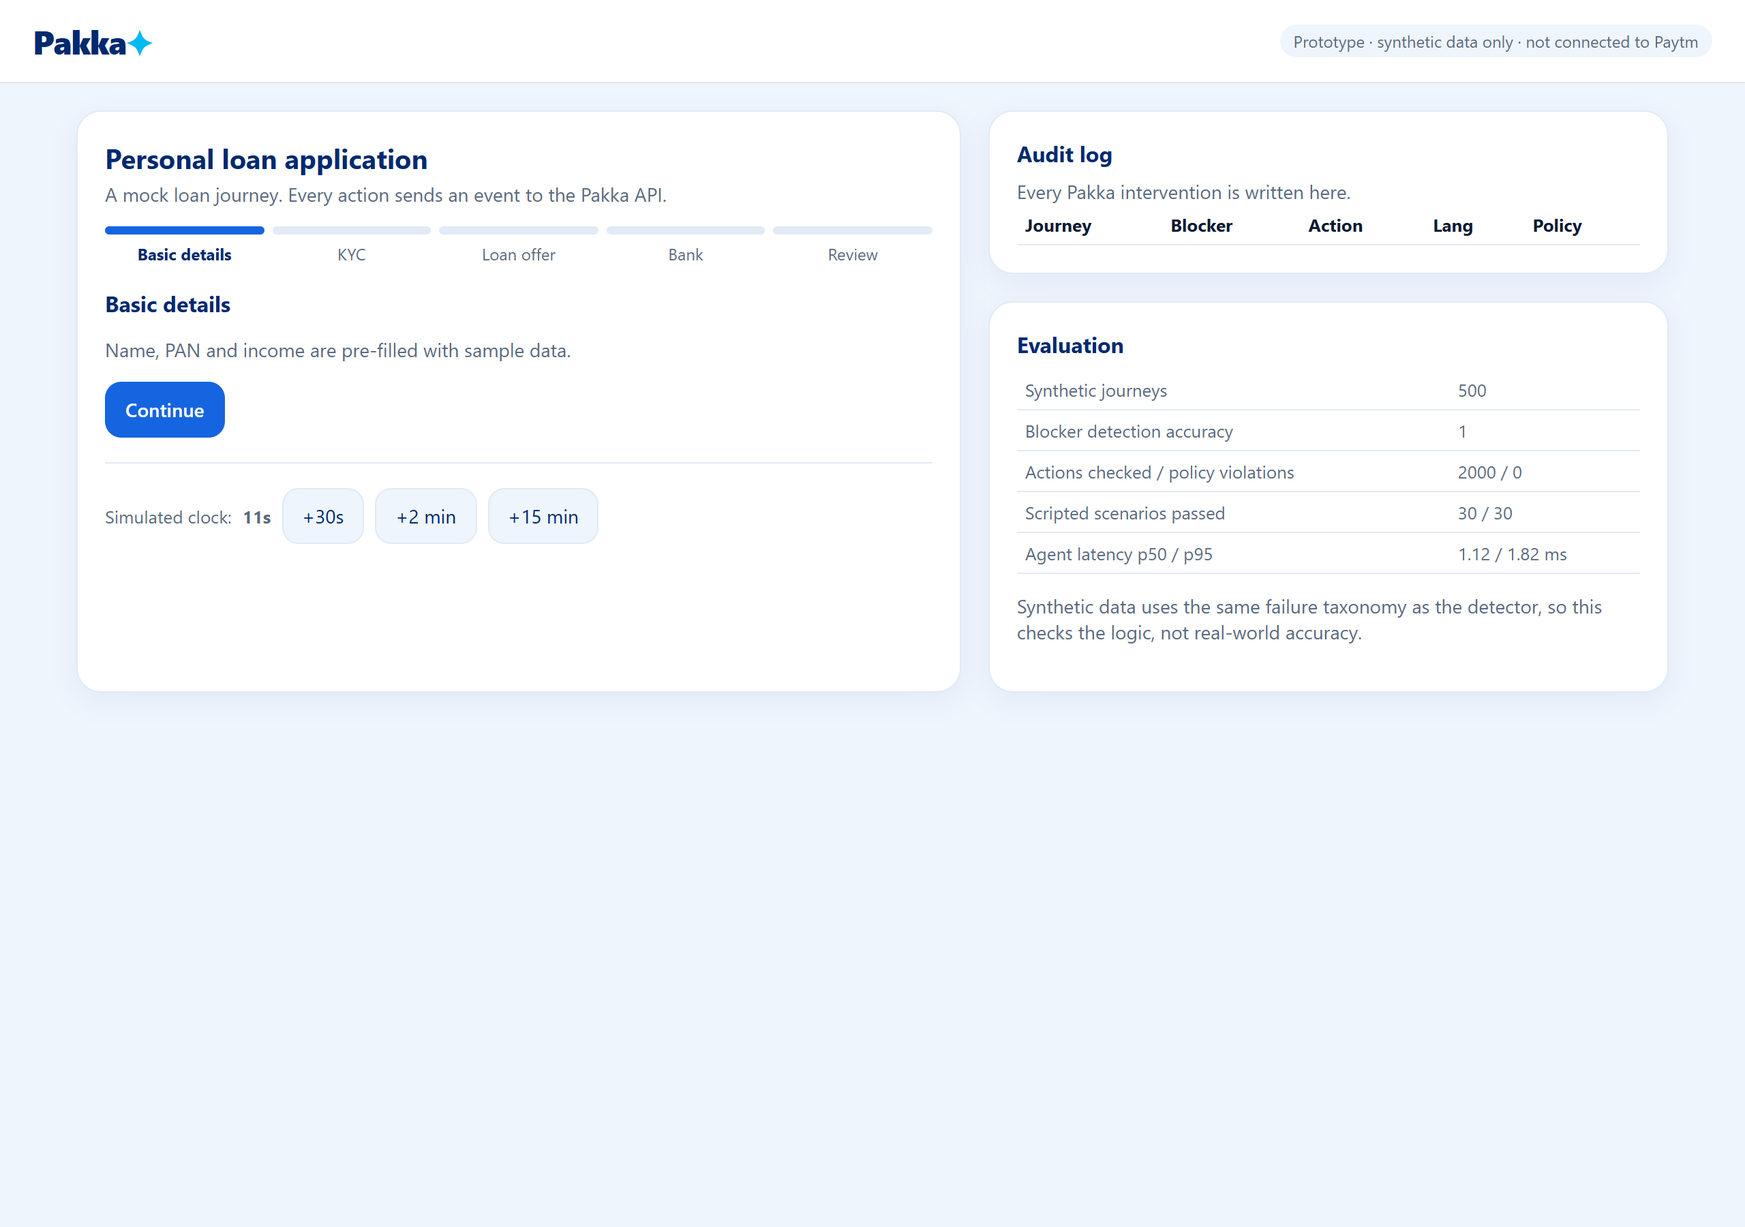
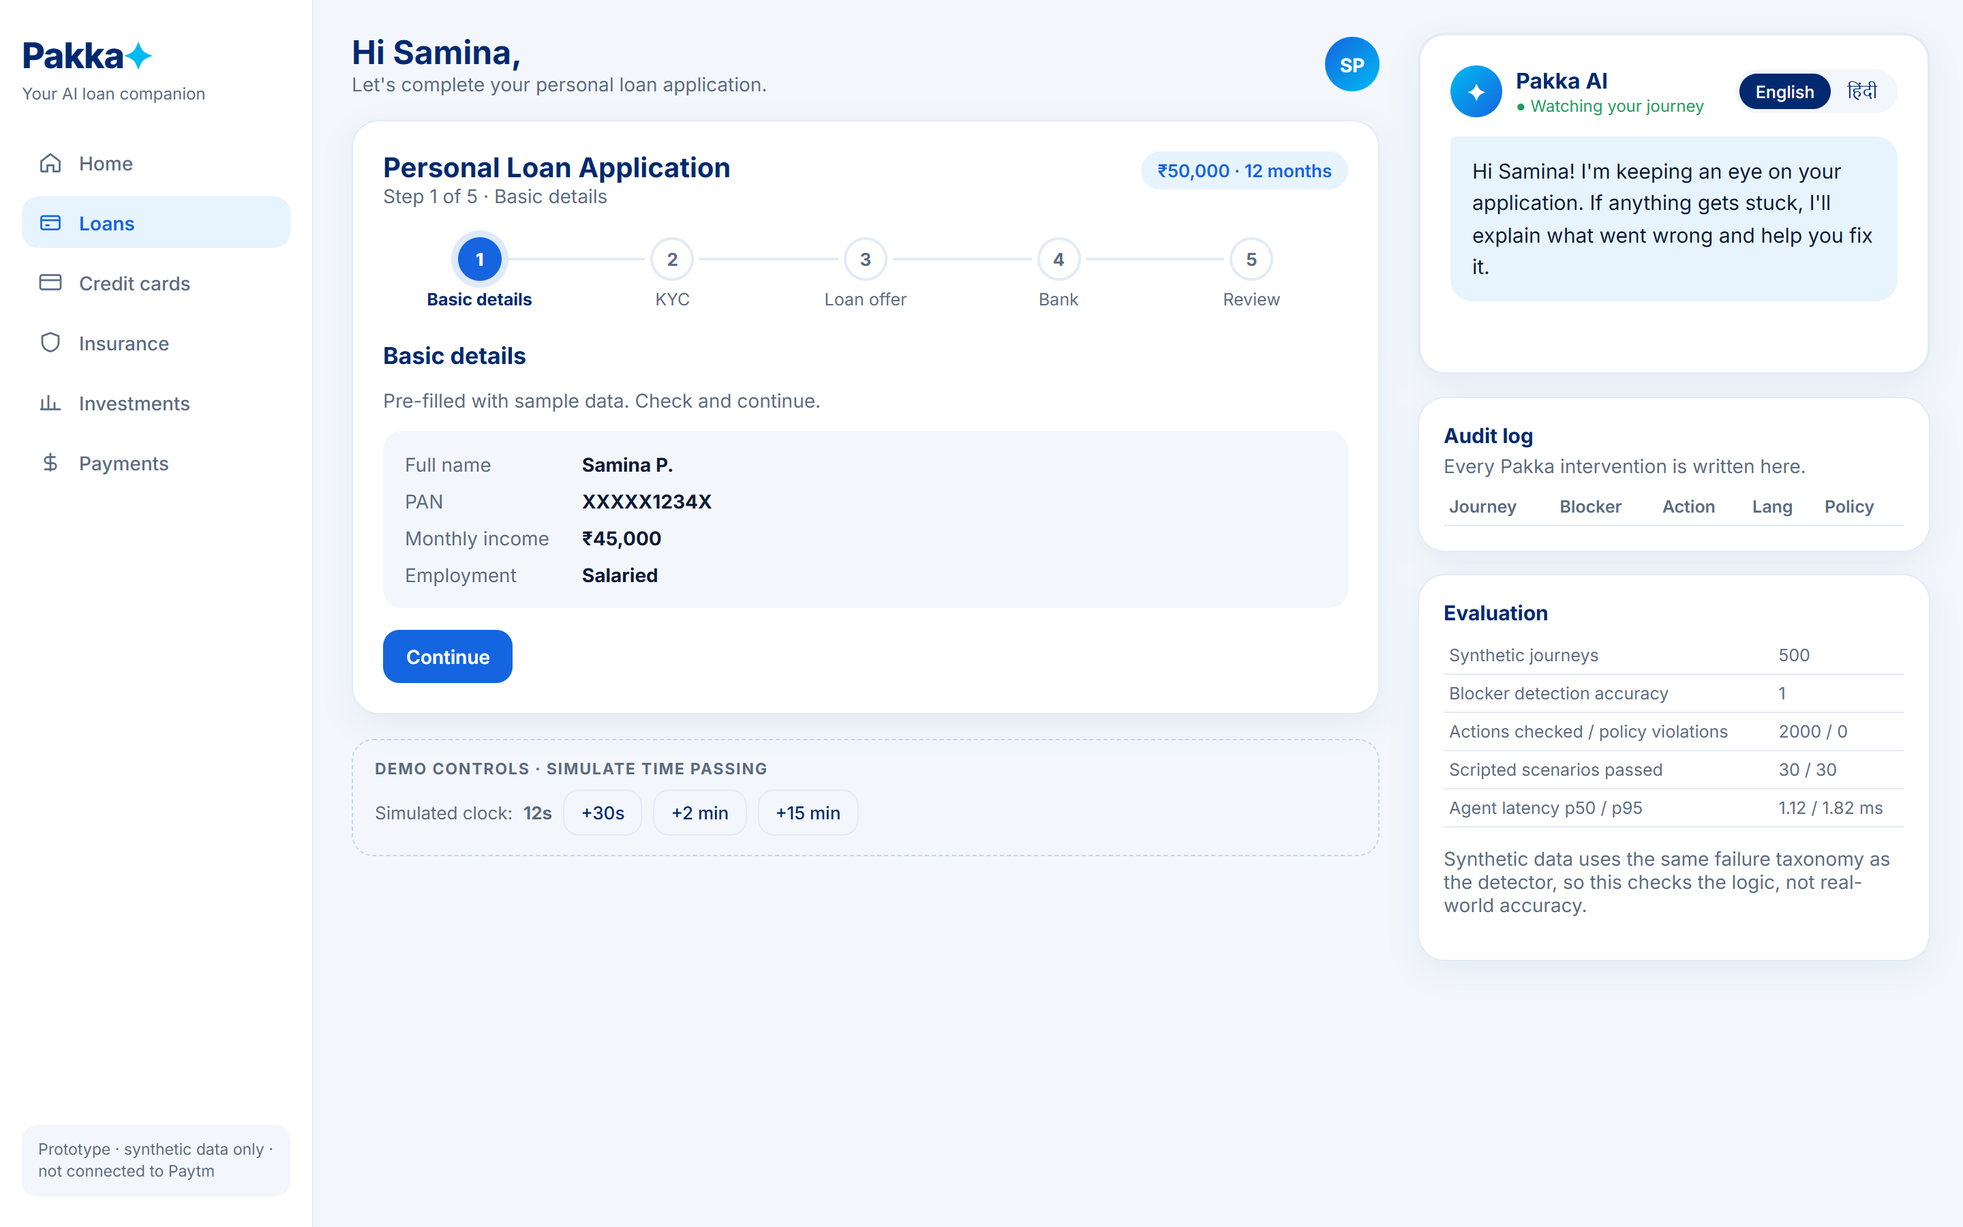
Redesign demo page to match concept screens

diff --git a/app/static/index.html b/app/static/index.html
@@ -4,71 +4,153 @@
 <meta charset="utf-8">
 <meta name="viewport" content="width=device-width, initial-scale=1">
 <title>Pakka prototype</title>
+<link rel="preconnect" href="https://fonts.googleapis.com">
+<link href="https://fonts.googleapis.com/css2?family=Inter:wght@400;500;600;700;800&display=swap" rel="stylesheet">
 <style>
-:root{--navy:#002970;--blue:#1565E0;--sky:#00BAF2;--bg:#EEF5FD;--card:#fff;--line:#E1EAF5;--text:#0B1B33;--muted:#5A6B82;--green:#1E9E5A;--amber:#B5651D}
+:root{--navy:#002970;--blue:#1565E0;--sky:#00BAF2;--bg:#F3F7FC;--soft:#E8F4FD;--card:#fff;--line:#E3EBF5;--text:#0B1B33;--muted:#5A6B82;--green:#1E9E5A;--greenBg:#E7F6EE;--amber:#B5651D;--amberBg:#FFF1E2}
 *{box-sizing:border-box}
 body{margin:0;font-family:Inter,system-ui,-apple-system,"Segoe UI",Roboto,Arial,sans-serif;background:var(--bg);color:var(--text)}
-header{display:flex;align-items:center;justify-content:space-between;padding:14px 24px;background:#fff;border-bottom:1px solid var(--line)}
-.logo{font-weight:800;font-size:24px;color:var(--navy);letter-spacing:-.5px}.logo span{color:var(--sky)}
-.tag{font-size:12px;color:var(--muted);background:var(--bg);padding:4px 10px;border-radius:99px}
-main{display:grid;grid-template-columns:1.3fr 1fr;gap:20px;max-width:1200px;margin:20px auto;padding:0 16px}
-@media(max-width:860px){main{grid-template-columns:1fr}}
-.card{background:var(--card);border:1px solid var(--line);border-radius:18px;padding:20px;box-shadow:0 6px 20px rgba(0,41,112,.06)}
-h2{margin:0 0 4px;font-size:20px;color:var(--navy)}h3{margin:0 0 8px;font-size:16px;color:var(--navy)}
+.app{display:grid;grid-template-columns:230px minmax(0,1fr) 400px;min-height:100vh}
+@media(max-width:1180px){.app{grid-template-columns:minmax(0,1fr) 380px}.app>.side{display:none}}
+@media(max-width:860px){.app{grid-template-columns:minmax(0,1fr)}}
+
+.side{background:#fff;border-right:1px solid var(--line);padding:22px 16px;display:flex;flex-direction:column;gap:6px}
+.logo{font-weight:800;font-size:26px;color:var(--navy);letter-spacing:-.6px}.logo span{color:var(--sky)}
+.by{font-size:12px;color:var(--muted);margin:-2px 0 18px}
+.side a{display:flex;align-items:center;gap:12px;padding:10px 12px;border-radius:12px;color:var(--muted);text-decoration:none;font-size:14px;font-weight:500}
+.side a svg{width:18px;height:18px;stroke:currentColor;fill:none;stroke-width:1.8}
+.side a.on{background:var(--soft);color:var(--blue);font-weight:600}
+.tag{margin-top:auto;font-size:11.5px;line-height:1.45;color:var(--muted);background:var(--bg);padding:10px 12px;border-radius:12px}
+
+.main{padding:24px 28px;display:flex;flex-direction:column;gap:18px;min-width:0}
+@media(max-width:860px){.main{padding:16px}}
+.top{display:flex;justify-content:space-between;align-items:center}
+.hi{font-size:24px;font-weight:700;color:var(--navy)}
+.avatar{width:40px;height:40px;border-radius:50%;background:linear-gradient(135deg,var(--blue),var(--sky));color:#fff;display:grid;place-items:center;font-weight:700;font-size:14px}
+.card{background:var(--card);border:1px solid var(--line);border-radius:20px;padding:22px;box-shadow:0 8px 24px rgba(0,41,112,.06)}
+h2{margin:0;font-size:20px;color:var(--navy)}h3{margin:0 0 4px;font-size:17px;color:var(--navy)}
 .muted{color:var(--muted);font-size:14px}
-.steps{display:flex;gap:6px;margin:14px 0 18px}
-.steps div{flex:1;text-align:center;font-size:12px;color:var(--muted)}
-.steps div b{display:block;height:6px;border-radius:9px;background:var(--line);margin-bottom:6px}
-.steps .done b{background:var(--green)}.steps .now b{background:var(--blue)}.steps .now{color:var(--navy);font-weight:700}
-button{font:inherit;font-size:14px;border-radius:12px;padding:10px 14px;border:1px solid var(--line);background:#fff;color:var(--navy);cursor:pointer}
-button.primary{background:var(--blue);border-color:var(--blue);color:#fff;font-weight:600}
+.jhead{display:flex;justify-content:space-between;align-items:flex-start;gap:12px;flex-wrap:wrap}
+.badge{font-size:13px;font-weight:600;color:var(--blue);background:var(--soft);padding:6px 12px;border-radius:99px}
+
+.steps{display:flex;margin:22px 0 24px}
+.steps div{flex:1;display:flex;flex-direction:column;align-items:center;gap:6px;font-size:12.5px;color:var(--muted);position:relative}
+.steps div:not(:last-child)::after{content:"";position:absolute;top:15px;left:calc(50% + 20px);right:calc(-50% + 20px);height:2px;background:var(--line)}
+.steps div.done:not(:last-child)::after{background:var(--green)}
+.steps b{width:32px;height:32px;border-radius:50%;display:grid;place-items:center;background:#fff;border:2px solid var(--line);font-size:13px;color:var(--muted)}
+.steps .done b{background:var(--green);border-color:var(--green);color:#fff}
+.steps .now b{background:var(--blue);border-color:var(--blue);color:#fff;box-shadow:0 0 0 5px rgba(21,101,224,.14)}
+.steps .now{color:var(--navy);font-weight:700}
+
+button,.btn{font:inherit;font-size:14px;font-weight:500;border-radius:12px;padding:10px 16px;border:1px solid var(--line);background:#fff;color:var(--navy);cursor:pointer}
+button:hover,.btn:hover{border-color:#c5d6ec}
+button.primary,.btn.primary{background:var(--blue);border-color:var(--blue);color:#fff;font-weight:600}
 button.ghost{background:var(--bg)}
-.row{display:flex;flex-wrap:wrap;gap:8px;margin:10px 0}
-.offer{display:grid;grid-template-columns:1fr 1fr;gap:8px;background:var(--bg);border-radius:12px;padding:12px;font-size:14px;margin:10px 0}
-.clock{display:flex;align-items:center;gap:8px;font-size:13px;color:var(--muted)}
-.pakka{border:2px solid var(--sky);display:none}
-.pakka.show{display:block}
-.pakka .head{display:flex;justify-content:space-between;align-items:center;margin-bottom:8px}
-.msg{white-space:pre-line;background:#E6F6FD;border-radius:14px;padding:14px;line-height:1.5;font-size:15px}
-.chips{display:flex;gap:6px;flex-wrap:wrap;margin-top:8px}
-.chip{font-size:12px;padding:3px 9px;border-radius:99px;background:var(--bg);color:var(--muted)}
-.chip.warn{background:#FFF1E2;color:var(--amber)}
-.lang button{padding:4px 10px;font-size:12px}.lang .on{background:var(--navy);color:#fff}
-table{width:100%;border-collapse:collapse;font-size:13px}td,th{padding:6px;border-bottom:1px solid var(--line);text-align:left;vertical-align:top}
+.row{display:flex;flex-wrap:wrap;gap:8px;margin:12px 0 0}
+
+.kv{display:grid;grid-template-columns:auto 1fr;gap:10px 24px;background:var(--bg);border-radius:14px;padding:16px;font-size:14px;margin:14px 0 16px}
+.kv span{color:var(--muted)}
+.docs{display:flex;flex-direction:column;gap:10px;margin-top:14px}
+.doc{display:flex;align-items:center;gap:14px;border:1px solid var(--line);border-radius:14px;padding:12px 14px}
+.doc.now{border-color:var(--sky);background:#FAFDFF;flex-wrap:wrap}
+.ic{width:38px;height:38px;border-radius:10px;background:var(--soft);display:grid;place-items:center;flex:none}
+.ic svg{width:20px;height:20px;stroke:var(--blue);fill:none;stroke-width:1.8}
+.doc .t{flex:1;min-width:0}.doc .t b{display:block;font-size:14.5px;color:var(--navy)}.doc .t span{font-size:12.5px;color:var(--muted)}
+.st{font-size:12px;font-weight:600;padding:4px 10px;border-radius:99px;white-space:nowrap}
+.st.ok{background:var(--greenBg);color:var(--green)}.st.need{background:var(--amberBg);color:var(--amber)}.st.wait{background:var(--bg);color:var(--muted)}
+.upl{flex-basis:100%;padding-left:52px}
+@media(max-width:600px){.upl{padding-left:0}}
+.frame{border:3px dashed var(--sky);border-radius:14px;height:110px;display:flex;align-items:center;justify-content:center;color:#d8f4ff;background:#14213A;margin:10px 0 0;font-weight:500}
+#doc{margin-top:8px;font-size:13px}
+
+.offercard{background:linear-gradient(135deg,var(--navy),var(--blue));color:#fff;border-radius:18px;padding:20px;margin:14px 0 6px}
+.offercard .amt{font-size:13px;opacity:.8}.offercard strong{display:block;font-size:34px;letter-spacing:-.5px;margin:2px 0 14px}
+.offercard .g{display:grid;grid-template-columns:repeat(3,1fr);gap:10px;font-size:12.5px}
+.offercard .g span{opacity:.75;display:block}.offercard .g b{font-size:16px}
+.success{text-align:center;padding:24px 0}
+.success .tk{width:64px;height:64px;border-radius:50%;background:var(--green);color:#fff;font-size:32px;display:grid;place-items:center;margin:0 auto 12px}
+
+.demo{border:1.5px dashed #c5d6ec;border-radius:16px;padding:14px 16px;background:transparent}
+.demo .h{font-size:11.5px;font-weight:700;letter-spacing:.08em;text-transform:uppercase;color:var(--muted);margin-bottom:8px}
+.demo .row{margin:6px 0 0}
+.demo button{font-size:13px;padding:8px 12px}
+.clock{display:flex;align-items:center;flex-wrap:wrap;gap:8px;font-size:13px;color:var(--muted)}
+
+.assist{padding:24px 24px 24px 0;display:flex;flex-direction:column;gap:16px}
+@media(max-width:860px){.assist{padding:0 16px 24px}}
+.pakka{border:2px solid var(--line);transition:border-color .2s,box-shadow .2s}
+.pakka.show{border-color:var(--sky);box-shadow:0 10px 30px rgba(0,186,242,.18)}
+.pakka .head{display:flex;justify-content:space-between;align-items:center;margin-bottom:14px}
+.who{display:flex;align-items:center;gap:10px}.who b{color:var(--navy);font-size:16px}
+.av{width:38px;height:38px;border-radius:50%;background:linear-gradient(135deg,var(--sky),var(--blue));color:#fff;display:grid;place-items:center;font-size:18px}
+.status{font-size:12px;color:var(--green)}.status::before{content:"● "}
+.pakka.show .status{color:var(--amber)}
+.status .b{display:none}.pakka.show .status .a{display:none}.pakka.show .status .b{display:inline}
+.pakka:not(.show) .live{display:none}.pakka.show .idle{display:none}
+.bubble{background:var(--soft);border-radius:4px 16px 16px 16px;padding:14px 16px;line-height:1.55;font-size:15px}
+.msg{white-space:pre-line}
+.why{font-size:11.5px;font-weight:700;letter-spacing:.08em;text-transform:uppercase;color:var(--muted);margin:14px 0 2px}
+.chips{display:flex;gap:6px;flex-wrap:wrap;margin-top:6px}
+.chip{font-size:12px;padding:4px 10px;border-radius:99px;background:var(--bg);color:var(--muted)}
+.chip.warn{background:var(--amberBg);color:var(--amber)}
+.lang{display:flex;background:var(--bg);border-radius:99px;padding:3px}
+.lang button{padding:5px 12px;font-size:12.5px;border:none;background:transparent;border-radius:99px}.lang .on{background:var(--navy);color:#fff}
 .toast{margin-top:10px;font-size:14px;color:var(--green);min-height:20px}
-.frame{border:3px dashed var(--sky);border-radius:12px;height:120px;display:flex;align-items:center;justify-content:center;color:#cfe;background:#1B2433;margin:10px 0}
-.stack{display:flex;flex-direction:column;gap:20px}
+.assist{min-width:0}.sm{padding:18px;overflow-x:auto}.sm h3{font-size:15px}
+table{width:100%;border-collapse:collapse;font-size:12.5px;margin-top:8px}td,th{padding:6px 4px;border-bottom:1px solid var(--line);text-align:left;vertical-align:top}th{color:var(--muted);font-weight:600}
 </style>
 </head>
 <body>
-<header>
+<div class="app">
+<aside class="side">
 <div class="logo">Pakka<span>✦</span></div>
-<span class="tag">Prototype · synthetic data only · not connected to Paytm</span>
-</header>
-<main>
+<div class="by">Your AI loan companion</div>
+<a href="#"><svg viewBox="0 0 24 24"><path d="M3 11l9-7 9 7v9a1 1 0 0 1-1 1h-5v-6H9v6H4a1 1 0 0 1-1-1z"/></svg>Home</a>
+<a href="#" class="on"><svg viewBox="0 0 24 24"><rect x="3" y="6" width="18" height="13" rx="2"/><path d="M3 10h18M7 15h4"/></svg>Loans</a>
+<a href="#"><svg viewBox="0 0 24 24"><rect x="2" y="5" width="20" height="14" rx="2"/><path d="M2 10h20"/></svg>Credit cards</a>
+<a href="#"><svg viewBox="0 0 24 24"><path d="M12 3l8 3v6c0 5-3.5 8-8 9-4.5-1-8-4-8-9V6z"/></svg>Insurance</a>
+<a href="#"><svg viewBox="0 0 24 24"><path d="M4 19V9M10 19V5M16 19v-7M22 19H2"/></svg>Investments</a>
+<a href="#"><svg viewBox="0 0 24 24"><path d="M12 3v18M17 7H9.5a3 3 0 0 0 0 6h5a3 3 0 0 1 0 6H6"/></svg>Payments</a>
+<div class="tag">Prototype · synthetic data only · not connected to Paytm</div>
+</aside>
+
+<main class="main">
+<div class="top">
+<div><div class="hi">Hi Samina,</div><div class="muted">Let's complete your personal loan application.</div></div>
+<div class="avatar">SP</div>
+</div>
 <section class="card">
-<h2>Personal loan application</h2>
-<div class="muted">A mock loan journey. Every action sends an event to the Pakka API.</div>
+<div class="jhead"><div><h2>Personal Loan Application</h2><div class="muted" id="stepno"></div></div><span class="badge">₹50,000 · 12 months</span></div>
 <div class="steps" id="steps"></div>
 <div id="screen"></div>
-<hr style="border:none;border-top:1px solid var(--line);margin:18px 0">
+</section>
+<section class="demo">
+<div class="h">Demo controls · simulate time passing</div>
 <div class="clock">Simulated clock: <b id="clock">0s</b>
 <button class="ghost" data-tick="30">+30s</button><button class="ghost" data-tick="120">+2 min</button><button class="ghost" data-tick="900">+15 min</button>
 </div>
 </section>
+</main>
 
-<div class="stack">
+<aside class="assist">
 <section class="card pakka" id="pakka">
-<div class="head"><h3>Pakka AI</h3><div class="lang"><button data-lang="en" class="on">English</button><button data-lang="hi">हिंदी</button></div></div>
-<div class="msg" id="msg"></div>
+<div class="head">
+<div class="who"><div class="av">✦</div><div><b>Pakka AI</b><div class="status"><span class="a">Watching your journey</span><span class="b">Stepped in to help</span></div></div></div>
+<div class="lang"><button data-lang="en" class="on">English</button><button data-lang="hi">हिंदी</button></div>
+</div>
+<div class="idle"><div class="bubble">Hi Samina! I'm keeping an eye on your application. If anything gets stuck, I'll explain what went wrong and help you fix it.</div></div>
+<div class="live">
+<div class="bubble msg" id="msg"></div>
+<div class="why">Why Pakka stepped in</div>
 <div class="chips" id="chips"></div>
 <div class="row"><button class="primary" id="yes">Yes, help me</button><button id="listen">Listen</button><button id="no">Not now</button></div>
+</div>
 <div class="toast" id="toast"></div>
 </section>
-<section class="card"><h3>Audit log</h3><div class="muted">Every Pakka intervention is written here.</div><table id="audit"></table></section>
-<section class="card"><h3>Evaluation</h3><div id="eval" class="muted">Run <code>python eval/run_eval.py</code> to fill this in.</div></section>
+<section class="card sm"><h3>Audit log</h3><div class="muted">Every Pakka intervention is written here.</div><table id="audit"></table></section>
+<section class="card sm"><h3>Evaluation</h3><div id="eval" class="muted">Run <code>python eval/run_eval.py</code> to fill this in.</div></section>
+</aside>
 </div>
-</main>
 <script>
 const STEPS=["basic","kyc","offer","bank","review"];
 const LABEL={basic:"Basic details",kyc:"KYC",offer:"Loan offer",bank:"Bank",review:"Review"};
@@ -111,20 +193,39 @@ const EFFECT={
 };
 function toast(t){$("#toast").textContent=t}
 
+const ICON='<svg viewBox="0 0 24 24"><rect x="3" y="5" width="18" height="14" rx="2"/><circle cx="9" cy="11" r="2"/><path d="M6 16c.6-1.6 1.7-2.4 3-2.4s2.4.8 3 2.4M14 10h4M14 13h3"/></svg>';
+const FILE='<svg viewBox="0 0 24 24"><path d="M14 3H7a2 2 0 0 0-2 2v14a2 2 0 0 0 2 2h10a2 2 0 0 0 2-2V8z"/><path d="M14 3v5h5M9 13h6M9 17h4"/></svg>';
+const doc=(t,s,st,cls,ic=FILE)=>`<div class="doc"><div class="ic">${ic}</div><div class="t"><b>${t}</b><span>${s}</span></div><span class="st ${cls}">${st}</span></div>`;
+
 function render(guide){
-  $("#steps").innerHTML=STEPS.map((s,i)=>`<div class="${i<STEPS.indexOf(step)||done?"done":s===step?"now":""}"><b></b>${LABEL[s]}</div>`).join("");
+  const at=done?STEPS.length:STEPS.indexOf(step);
+  $("#steps").innerHTML=STEPS.map((s,i)=>`<div class="${i<at?"done":i===at?"now":""}"><b>${i<at?"✓":i+1}</b>${LABEL[s]}</div>`).join("");
+  $("#stepno").textContent=done?"Completed":`Step ${at+1} of ${STEPS.length} · ${LABEL[step]}`;
   const S=$("#screen");
-  if(done){S.innerHTML=`<h3>Application submitted</h3><p class="muted">Journey ${jid} finished at ${clock}s.</p>`;return}
-  if(step==="basic")S.innerHTML=`<h3>Basic details</h3><p class="muted">Name, PAN and income are pre-filled with sample data.</p><button class="primary" id="next">Continue</button>`;
-  if(step==="kyc")S.innerHTML=`<h3>Upload Aadhaar</h3>${guide?`<div class="frame">Keep all four corners inside the frame</div>`:""}
-  <div class="row"><label class="primary" style="padding:10px 14px;border-radius:12px;background:var(--blue);color:#fff;cursor:pointer">Upload a real photo<input type="file" id="file" accept="image/*" hidden></label><button id="ok">Good photo (simulated)</button></div>
-  <div class="muted">Simulate a failure:</div>
-  <div class="row"><button data-fail="IMG_CROPPED">Corner cut off</button><button data-fail="IMG_BLUR">Blurry</button><button data-fail="IMG_GLARE">Glare</button><button data-fail="FILE_FORMAT">Wrong file type</button><button id="live">Face check fails</button><button id="dl">No DigiLocker</button></div>
-  <div class="muted" id="doc"></div>`;
-  if(step==="offer")S.innerHTML=`<h3>Your loan offer</h3><div class="offer"><span>Amount</span><b>₹50,000</b><span>Tenure</span><b>12 months</b><span>EMI</span><b>₹4,600</b><span>APR</span><b>21.6%</b></div><div class="muted">Sample numbers for the demo.</div>
+  if(done){S.innerHTML=`<div class="success"><div class="tk">✓</div><h3>Great! Your application is submitted</h3><p class="muted">Journey ${jid} finished at ${clock}s.</p></div>`;return}
+  if(step==="basic")S.innerHTML=`<h3>Basic details</h3><p class="muted">Pre-filled with sample data. Check and continue.</p>
+  <div class="kv"><span>Full name</span><b>Samina P.</b><span>PAN</span><b>XXXXX1234X</b><span>Monthly income</span><b>₹45,000</b><span>Employment</span><b>Salaried</b></div>
+  <button class="primary" id="next">Continue</button>`;
+  if(step==="kyc")S.innerHTML=`<h3>Upload documents</h3><p class="muted">We need these to verify your identity.</p>
+  <div class="docs">
+  <div class="doc now"><div class="ic">${ICON}</div><div class="t"><b>Identity proof</b><span>Aadhaar card, front side</span></div><span class="st need">Action needed</span>
+   <div class="upl">${guide?`<div class="frame">Keep all four corners inside the frame</div>`:""}
+   <div class="row"><label class="btn primary">Upload a real photo<input type="file" id="file" accept="image/*" hidden></label><button id="ok">Good photo (simulated)</button></div>
+   <div class="muted" id="doc"></div></div></div>
+  ${doc("PAN card","From basic details","Verified","ok")}
+  ${doc("Income proof","Salary slip","Uploaded","ok")}
+  ${doc("Bank statement","Last 3 months","Next","wait")}
+  </div>
+  <div class="demo" style="margin-top:16px"><div class="h">Demo controls · simulate what real users hit</div>
+  <div class="row"><button data-fail="IMG_CROPPED">Corner cut off</button><button data-fail="IMG_BLUR">Blurry</button><button data-fail="IMG_GLARE">Glare</button><button data-fail="FILE_FORMAT">Wrong file type</button><button id="live">Face check fails</button><button id="dl">No DigiLocker</button></div></div>`;
+  if(step==="offer")S.innerHTML=`<h3>Your loan offer</h3><p class="muted">Sample numbers for the demo.</p>
+  <div class="offercard"><div class="amt">Loan amount</div><strong>₹50,000</strong><div class="g"><div><span>Tenure</span><b>12 months</b></div><div><span>EMI</span><b>₹4,600</b></div><div><span>APR</span><b>21.6%</b></div></div></div>
   <div class="row"><button id="kfs">Open Key Fact Statement</button><button id="back">Go back</button><button class="primary" id="accept">Accept offer</button></div>`;
-  if(step==="bank")S.innerHTML=`<h3>Bank account</h3><p class="muted">Disbursal goes straight to your own account.</p><button class="primary" id="next">Continue</button>`;
-  if(step==="review")S.innerHTML=`<h3>Review and submit</h3><button class="primary" id="submit">Submit application</button>`;
+  if(step==="bank")S.innerHTML=`<h3>Bank account</h3><p class="muted">Disbursal goes straight to your own account.</p>
+  <div class="docs">${doc("Savings account","XXXX XXXX 4821 · sample","Verified","ok")}</div><div class="row"><button class="primary" id="next">Continue</button></div>`;
+  if(step==="review")S.innerHTML=`<h3>Review and submit</h3><p class="muted">Everything is in place.</p>
+  <div class="kv"><span>Loan amount</span><b>₹50,000</b><span>EMI</span><b>₹4,600 × 12 months</b><span>Documents</span><b>All verified</b></div>
+  <button class="primary" id="submit">Submit application</button>`;
   bind();
 }
 function bind(){
